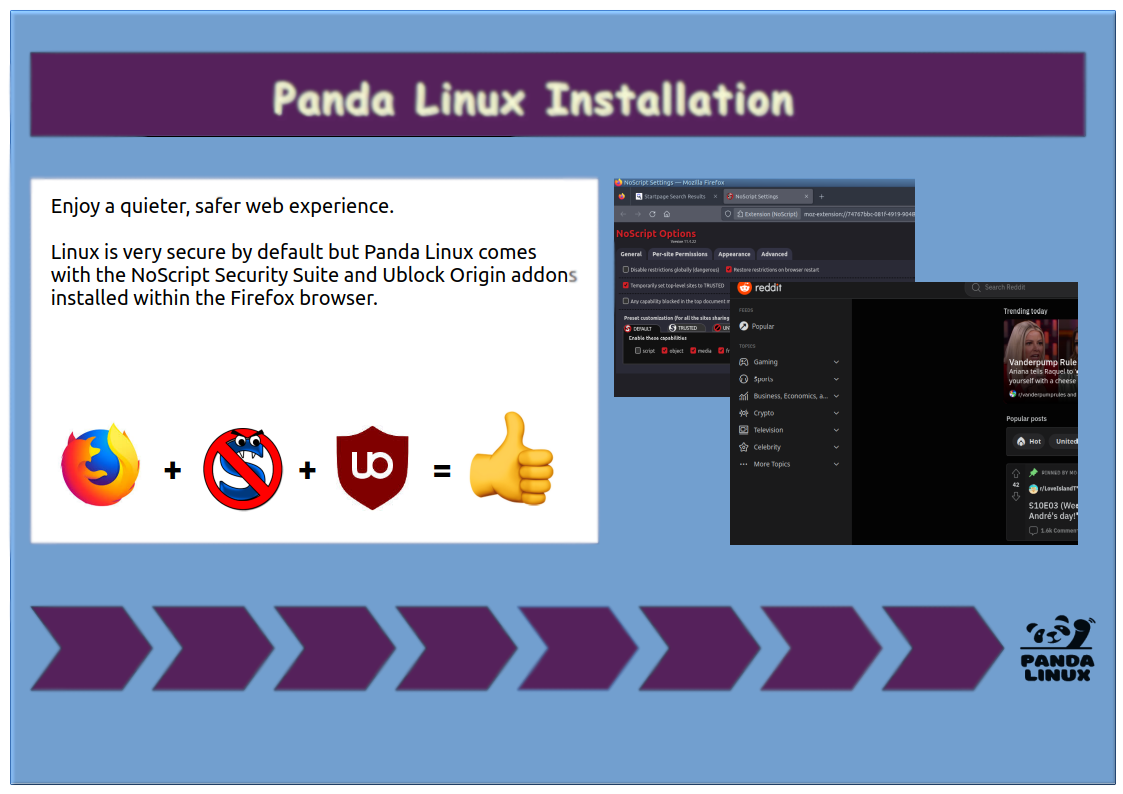
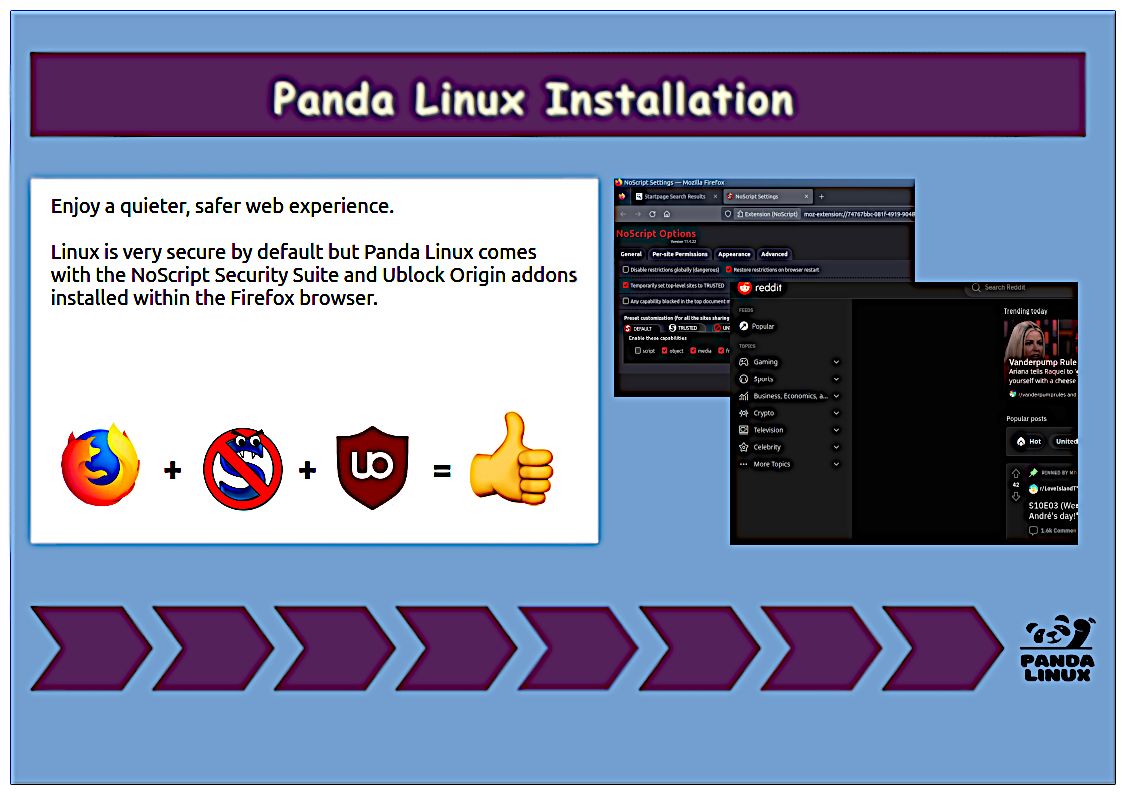
Tidied up slideshow and calamares window.

diff --git a/airootfs/etc/calamares/branding/panda/show.qml b/airootfs/etc/calamares/branding/panda/show.qml
@@ -17,7 +17,7 @@
  */
 
 /*
- * Slides images dimensions are 800x440px.
+ * Slides images dimensions are 800x566px.
  */
 
 import QtQuick 2.0;
@@ -39,7 +39,7 @@ Presentation
         Image {
             id: background1
             source: "slide1.png"
-            width: 800; height: 440
+            width: 800; height: 566
             fillMode: Image.PreserveAspectFit
             anchors.centerIn: parent
         }
@@ -58,7 +58,7 @@ Presentation
         Image {
             id: background2
             source: "slide2.png"
-            width: 800; height: 440
+            width: 800; height: 566
             fillMode: Image.PreserveAspectFit
             anchors.centerIn: parent
         }
@@ -77,7 +77,7 @@ Presentation
         Image {
             id: background3
             source: "slide3.png"
-            width: 800; height: 440
+            width: 800; height: 566
             fillMode: Image.PreserveAspectFit
             anchors.centerIn: parent
         }
@@ -96,7 +96,7 @@ Presentation
         Image {
             id: background4
             source: "slide4.png"
-            width: 800; height: 440
+            width: 800; height: 566
             fillMode: Image.PreserveAspectFit
             anchors.centerIn: parent
         }
@@ -115,7 +115,7 @@ Presentation
         Image {
             id: background5
             source: "slide5.png"
-            width: 800; height: 440
+            width: 800; height: 566
             fillMode: Image.PreserveAspectFit
             anchors.centerIn: parent
         }
@@ -134,7 +134,7 @@ Presentation
         Image {
             id: background6
             source: "slide6.png"
-            width: 800; height: 440
+            width: 800; height: 566
             fillMode: Image.PreserveAspectFit
             anchors.centerIn: parent
         }
@@ -153,7 +153,7 @@ Presentation
         Image {
             id: background7
             source: "slide7.png"
-            width: 800; height: 440
+            width: 800; height: 566
             fillMode: Image.PreserveAspectFit
             anchors.centerIn: parent
         }
